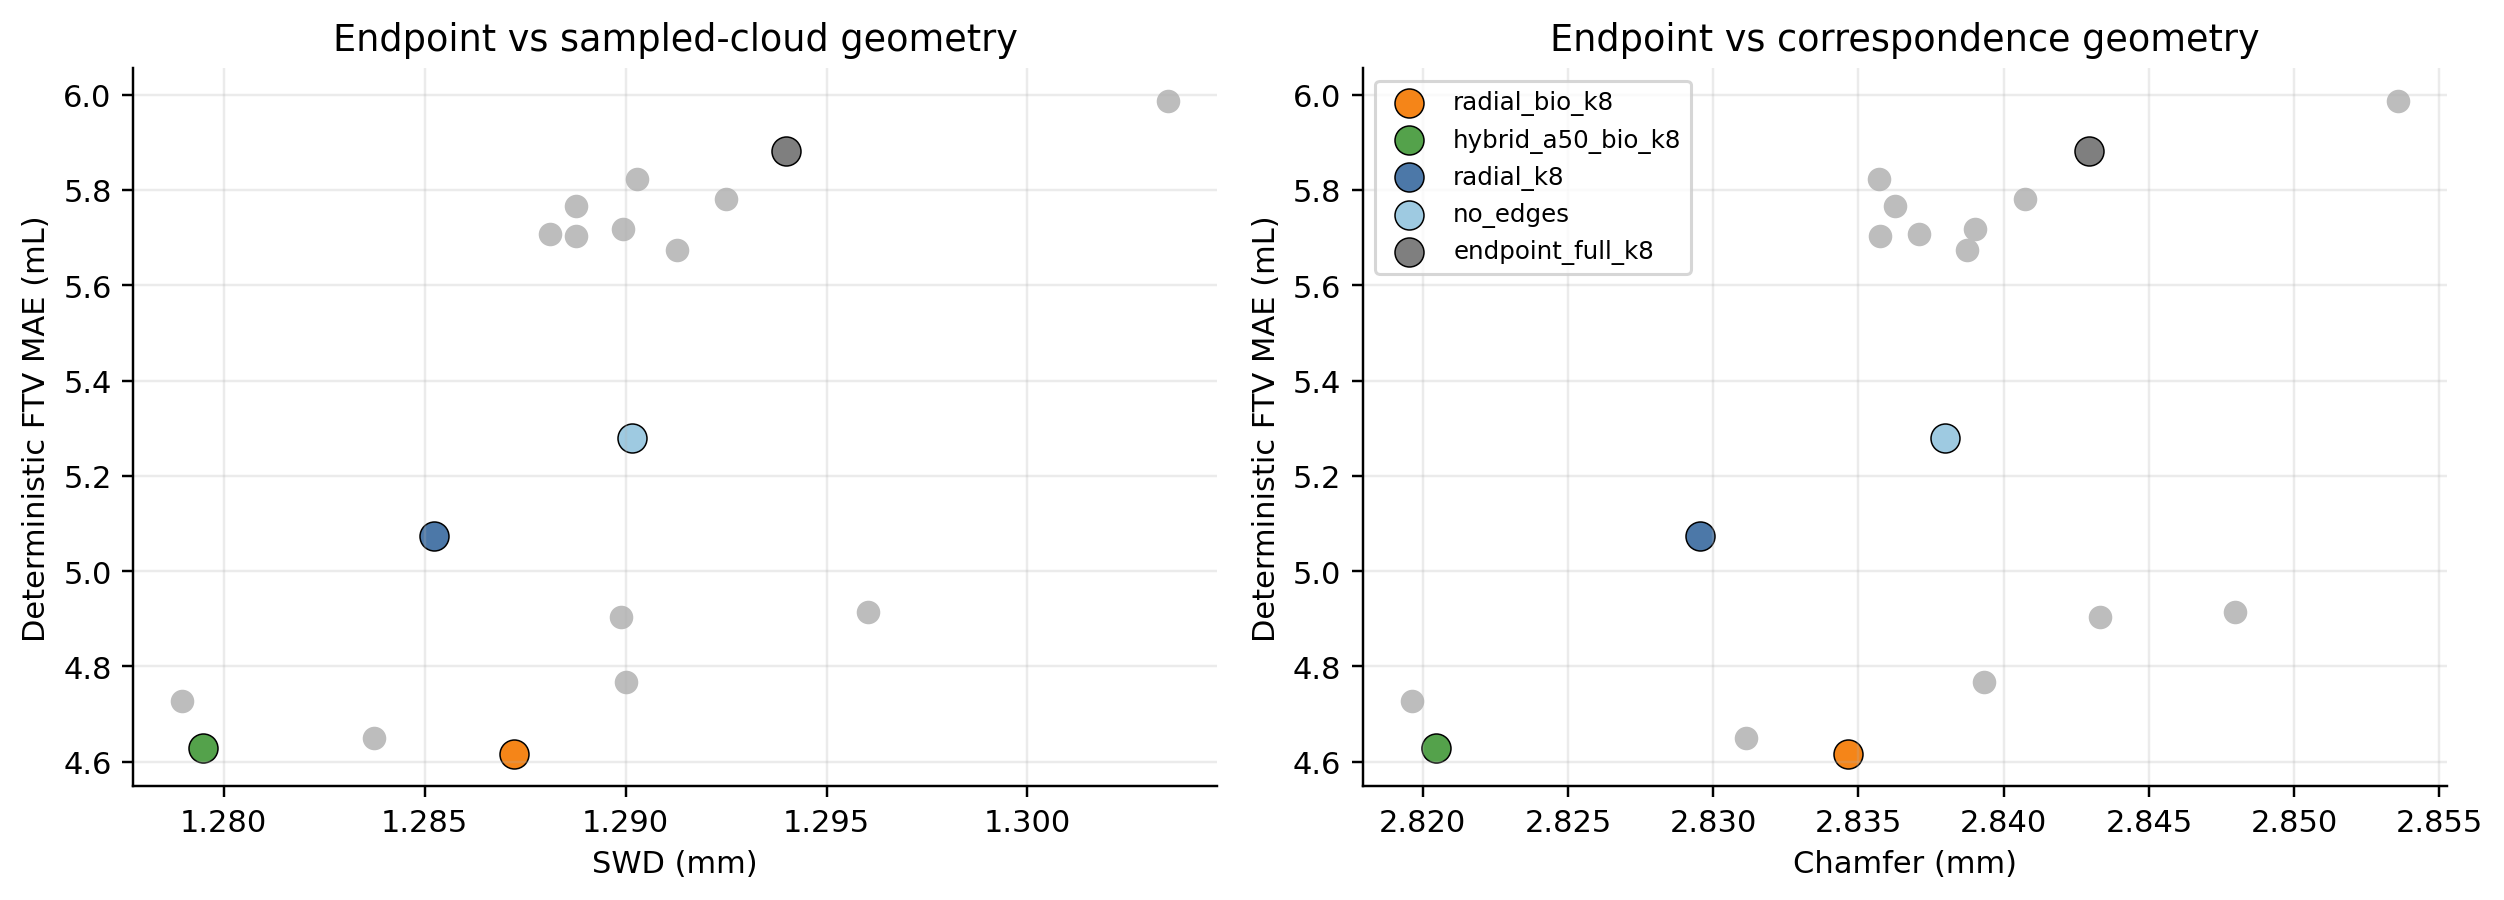
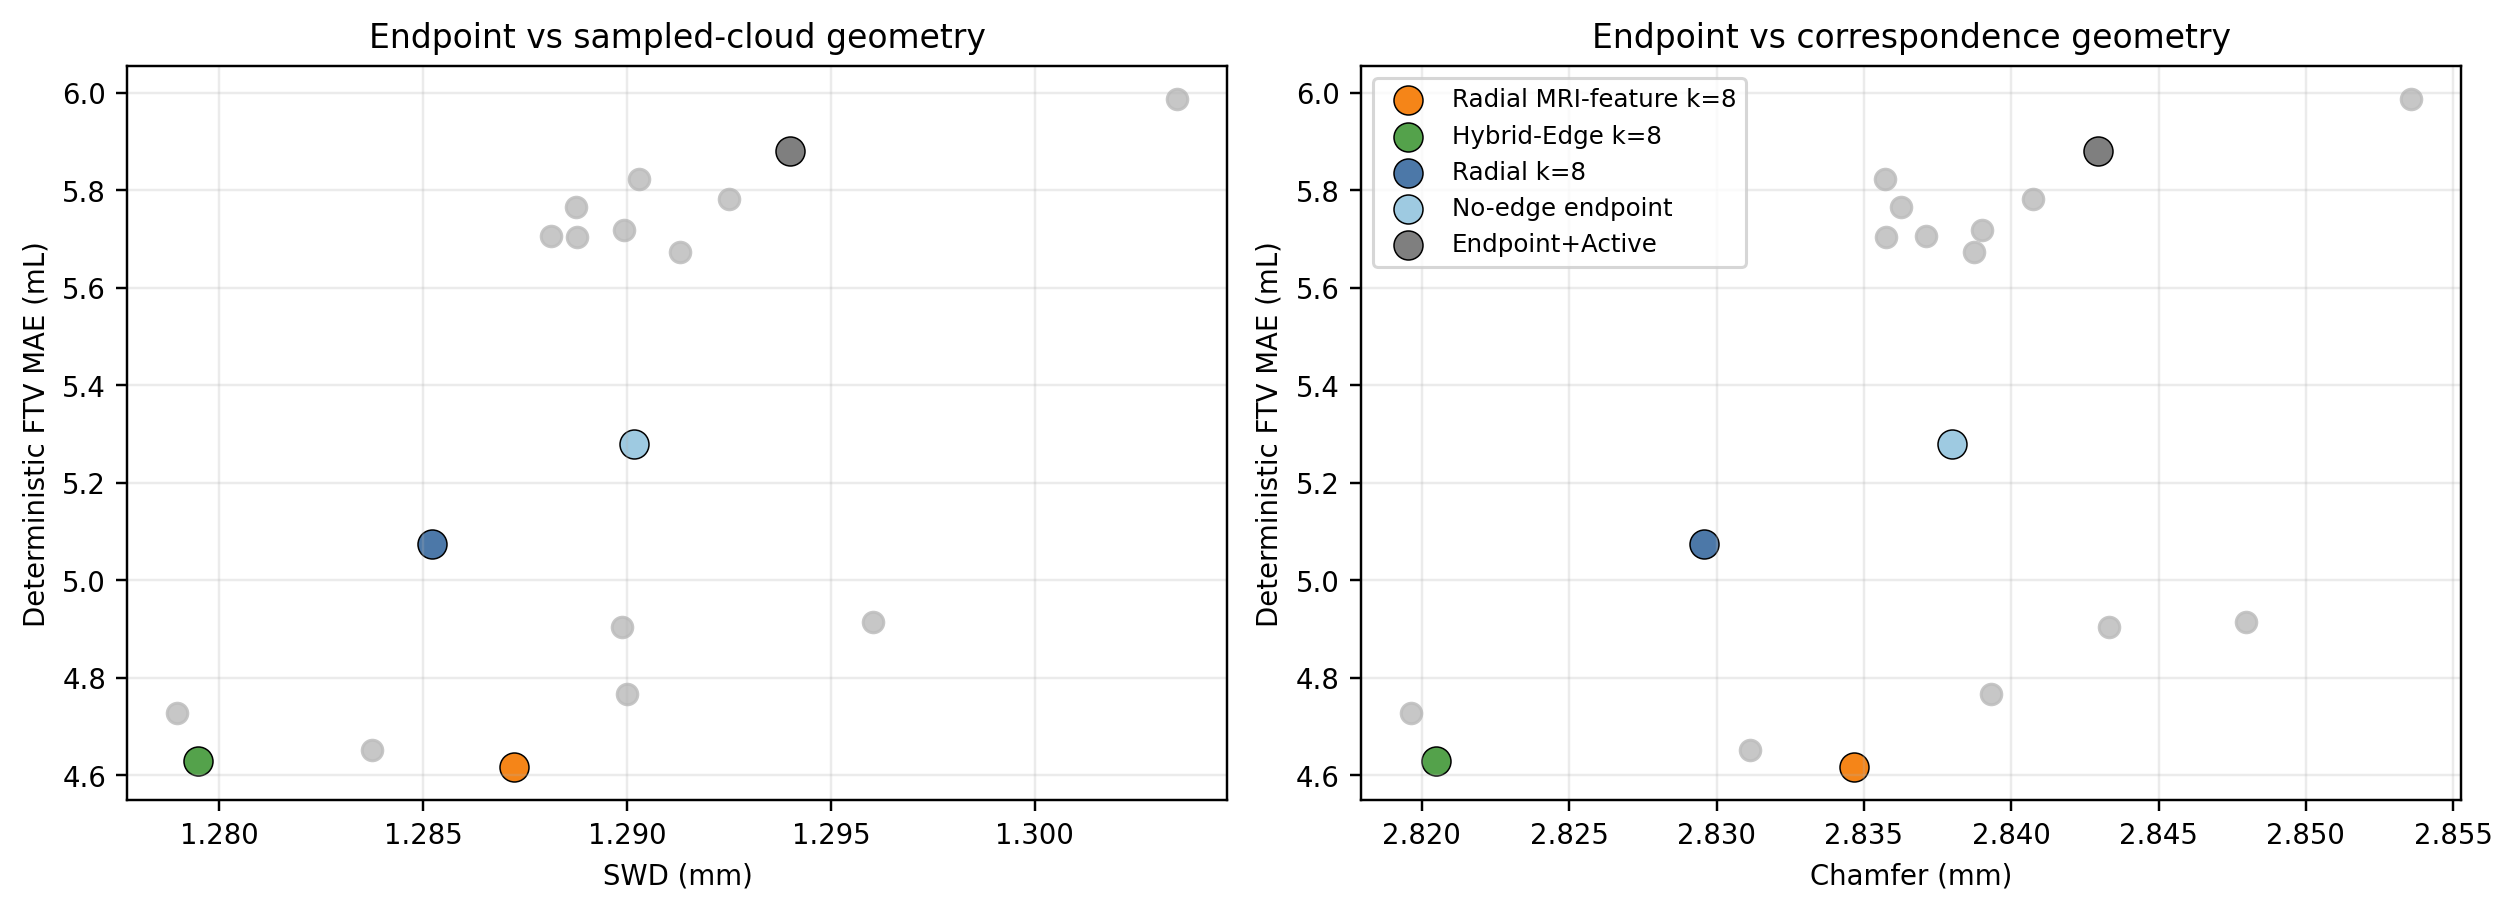
Polish manuscript figures and acronym definitions

diff --git a/paper/main.tex b/paper/main.tex
@@ -74,14 +74,15 @@ residual Monte Carlo simulation converts the graph center into patient-level
 FTV distributions. Controlled synthetic tumors first test when graph
 neighborhoods should help. In the latent spatial-field setting, where
 neighborhoods reveal hidden response structure, the final hybrid-edge model
-reduced \Tzero$\rightarrow$\Tthree{} MC-mean FTV error by 5.43 mL and CRPS by
-3.53 relative to a no-edge control. The same framework was then evaluated on
+reduced \Tzero$\rightarrow$\Tthree{} MC-mean FTV error by 5.43 mL and
+Continuous Ranked Probability Score (CRPS) by 3.53 relative to a no-edge control. The same framework was then evaluated on
 758 held-out patients from the I-SPY2/ACRIN graph-bearing cohort. Relative to
 the original graph rollout, the final model reduced deterministic FTV error
 from 12.88 mL to 4.63 mL, MC-mean FTV error from 15.26 mL to 5.56 mL, and
 conformal 90\% interval width from 59.51 mL to 22.38 mL, while improving raw
 90\% coverage from 0.766 to 0.877. Its Monte Carlo samples also identified
-low residual MRI burden at \Tthree{} (FTV $<5$ mL) with AUC 0.957, comparable
+low residual MRI burden at \Tthree{} (FTV $<5$ mL) with receiver-operating-characteristic
+area under the curve (AUC) 0.957, comparable
 to strong last-observed FTV threshold baselines. These results support
 calibrated structured tumor-state forecasting: message passing is most useful
 when graph neighborhoods carry response structure, endpoint calibration makes
@@ -111,8 +112,9 @@ as a response-monitoring substrate for adaptive neoadjuvant trials
 central quantitative MRI biomarker, and longitudinal FTV and related DCE-MRI
 features carry response and recurrence information
 \cite{hylton2012ispy,hylton2016ftv,li2020ispy2mri,onishi2023ftvvariation}.
-Public I-SPY2 and ACRIN-6698 imaging resources make this problem testable at
-cohort scale \cite{tciaispy2,tciaacrin6698}.
+Public I-SPY2 and ACRIN-6698 imaging resources available through The Cancer
+Imaging Archive (TCIA) make this problem testable at cohort scale
+\cite{tciaispy2,tciaacrin6698}.
 
 The clinical value of this forecasting task goes beyond reducing numerical FTV
 error. During neoadjuvant therapy, serial MRI is used to monitor whether tumor
@@ -376,8 +378,8 @@ $\widehat{G}_{p,t}$ denote the predicted tumor graph state and
 $\widehat{e}_{p,t}=R(\widehat{G}_{p,t})$ denote a scalar endpoint readout, here
 FTV computed from predicted node volumes and active-node probabilities. A graph
 rollout can be spatially plausible if
-$d_G(\widehat{G}_{p,t},G_{p,t})$ is small for a cloud metric such as SWD or
-Chamfer distance, while still being clinically miscentered if
+$d_G(\widehat{G}_{p,t},G_{p,t})$ is small for a cloud metric such as sliced
+Wasserstein distance (SWD) or Chamfer distance, while still being clinically miscentered if
 $\widehat{e}_{p,t}$ is biased. For patient-level uncertainty, the requirement
 is stronger: the predictive distribution
 $\widehat{P}(e_{p,t}\mid G_{p,\leq s})$ should be sharp, centered, and
@@ -1012,7 +1014,8 @@ coverage, interval width, and CRPS. Fourth, graph-native outputs are evaluated
 because active-node and sampled-cloud states are graph-specific outputs.
 Finally, edge-neighborhood ablations and stratified analyses test
 whether the final graph model is robust across edge definitions, cohorts, and
-molecular subtype groups. A small independent Breast-MRI-NACT-Pilot cohort is
+molecular subtype groups. A small independent Breast-MRI-NACT-Pilot
+(neoadjuvant chemotherapy; NACT) cohort is
 included only as an external stress test of paper-family model transfer;
 because it contains 11 graph-ready patients, it is not treated as powered
 clinical external validation. Expanded endpoint-loss, graph-edge,
@@ -1618,7 +1621,9 @@ pathology response probabilities.
 \caption{Secondary clinically interpretable MRI-burden readouts for the
 \Tzero$\rightarrow$\Tthree{} cohort. The MC scores use the retained
 \modeltag{} residual Monte Carlo samples; last-observed FTV is included as a
-clinical-use baseline, and these endpoints are not pathology response claims.}
+clinical-use baseline, and these endpoints are not pathology response claims.
+Sens., Spec., PPV, and NPV denote sensitivity, specificity, positive predictive
+value, and negative predictive value.}
 \label{tab:clinicalburdenreadout}
 \scriptsize
 \setlength{\tabcolsep}{4.5pt}